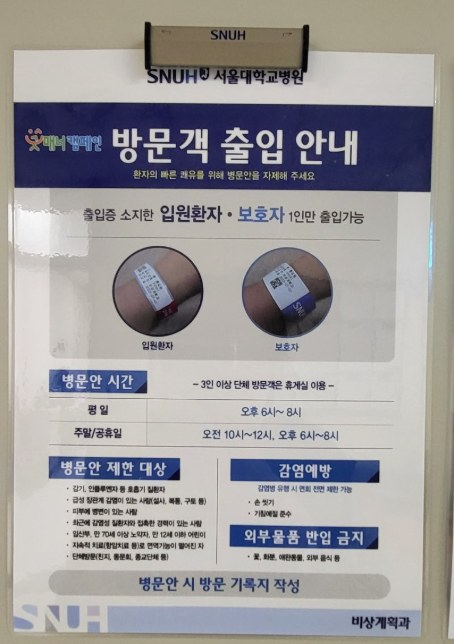
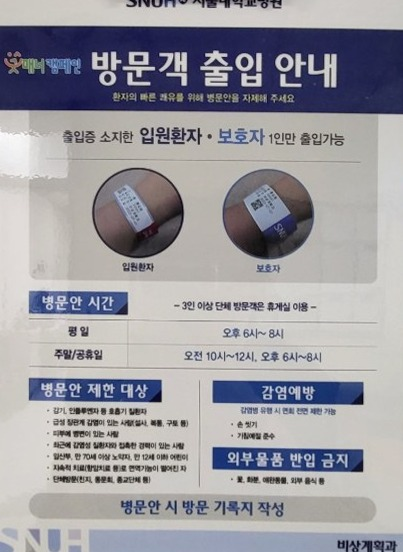
안내문을 코르크 게시판에 압정으로 한 장씩 부착, 종이만 잘라 사용, 크기 3/5
Claude-Session: https://claude.ai/code/session_01Tb1TtQBXJKutPTdhVbqyup

diff --git a/index.html b/index.html
@@ -1388,27 +1388,49 @@ function drawMonitor(g, w, h) {
   }
   tag(g, '보호자 소파 (3인용)', '');
 }
-// 병원 안내문 6장 (앞벽 왼쪽, TV 옆): 클립보드형 안내문이 2줄 × 3열로 붙어 있음. 사진은 notices/ 폴더
+// 병원 안내문 6장 (앞벽 왼쪽, TV 옆): 코르크 게시판에 압정으로 한 장씩 꽂아 둠 (2줄 × 3열). 사진은 notices/ 폴더 (종이 부분만 잘라 사용)
 {
   const NOTICES = [
-    ['n_visit', 454, 644, '방문객 출입 안내', '출입증 소지한 입원환자·보호자 1인만 출입 가능'],
-    ['n_wifi',  454, 650, 'Guest WiFi 연결 방법 안내', '모바일 Guest WiFi 연결 방법'],
-    ['n_life',  454, 672, '병원 생활 안내', '입원환자 보호자 및 간병인을 위한 병원 생활 안내'],
-    ['n_fee',   454, 630, '진료비 안내문', '병실료 안내 (본인부담금 기준)'],
-    ['n_park',  454, 694, '주차 요금 안내', '일반주차장 요금 및 감면 내역'],
-    ['n_food',  454, 684, '환자 급식 원산지 안내', '환자식 식재료 원산지']
+    ['n_visit', 403, 552, '방문객 출입 안내', '출입증 소지한 입원환자·보호자 1인만 출입 가능'],
+    ['n_wifi',  403, 521, 'Guest WiFi 연결 방법 안내', '모바일 Guest WiFi 연결 방법'],
+    ['n_life',  423, 559, '병원 생활 안내', '입원환자 보호자 및 간병인을 위한 병원 생활 안내'],
+    ['n_fee',   430, 529, '진료비 안내문', '병실료 안내 (본인부담금 기준)'],
+    ['n_park',  440, 598, '주차 요금 안내', '일반주차장 요금 및 감면 내역'],
+    ['n_food',  440, 594, '환자 급식 원산지 안내', '환자식 식재료 원산지']
   ];
-  const PW = 0.42, XS = [-2.42, -1.8, -1.18], TOPS = [2.28, 1.56];
+  const PW = 0.252, GAP = 0.05, ROWH = [0.35, 0.345];            // 안내문 너비(기존 0.42 m의 3/5), 칸 간격, 줄 높이
+  const BWd = 3 * PW + 4 * GAP + 0.04, BHt = ROWH[0] + ROWH[1] + 3 * GAP + 0.04;
+  const board = group(world, -1.8, 1.8, 2.495);
+  board.rotation.y = Math.PI;                                  // 앞면이 방 안쪽(-z)
+  const corkTex = canvasTex(512, 512, (c, w, h) => {
+    c.fillStyle = '#b98b55'; c.fillRect(0, 0, w, h);
+    for (let i = 0; i < 2600; i++) {
+      const v = Math.random();
+      c.fillStyle = v < 0.5 ? 'rgba(120,80,40,0.35)' : (v < 0.8 ? 'rgba(220,175,120,0.4)' : 'rgba(70,45,20,0.3)');
+      c.beginPath(); c.arc(Math.random() * w, Math.random() * h, 1 + Math.random() * 3, 0, 7); c.fill();
+    }
+  });
+  add(board, B(BWd + 0.05, BHt + 0.05, 0.03), mat(0x7a5230, { roughness:0.6 }), 0, 0, 0.015);      // 나무 틀
+  const cork = new THREE.Mesh(new THREE.PlaneGeometry(BWd, BHt), new THREE.MeshStandardMaterial({ map:corkTex, roughness:0.95 }));
+  cork.position.z = 0.0305; board.add(cork);
+  tag(board, '병원 게시판', '병원 안내문 6장이 압정으로 꽂혀 있음');
   const loader = new THREE.TextureLoader();
+  const pinCols = [0xd33b32, 0x2f6fd6, 0xf2c200, 0x2e9e5b, 0xd33b32, 0x2f6fd6];
   NOTICES.forEach(([file, tw, th, label, read], i) => {
-    const h = PW * th / tw, cx = XS[i % 3], top = TOPS[Math.floor(i / 3)];
-    const g = group(world, cx, top - h / 2, 2.495);
-    g.rotation.y = Math.PI;                              // 앞면이 방 안쪽(-z)
-    g.rotation.z = (i % 2 ? 1 : -1) * 0.008;             // 손으로 붙인 듯 아주 살짝 기울임
+    const col = i % 3, row = Math.floor(i / 3), h = PW * th / tw;
+    const x = -BWd / 2 + 0.02 + GAP + PW / 2 + col * (PW + GAP);
+    const topY = BHt / 2 - 0.02 - GAP - (row ? ROWH[0] + GAP : 0);
+    const g = group(board, x + (i % 2 ? 0.004 : -0.004), topY - h / 2, 0.0315);
+    g.rotation.z = [0.012, -0.01, 0.008, -0.013, 0.01, -0.008][i];   // 손으로 꽂은 듯 살짝 기울임
     const tex = loader.load('notices/' + file + '.jpg');
     tex.colorSpace = THREE.SRGBColorSpace; tex.anisotropy = 8;
+    const sh = new THREE.Mesh(new THREE.PlaneGeometry(PW, h), new THREE.MeshBasicMaterial({ color:0x000000, transparent:true, opacity:0.28 }));
+    sh.position.set(0.006, -0.006, 0.0003); g.add(sh);          // 종이 그림자
     const m = new THREE.Mesh(new THREE.PlaneGeometry(PW, h), new THREE.MeshStandardMaterial({ map:tex, roughness:0.55 }));
-    m.receiveShadow = true; g.add(m);
+    m.position.z = 0.0012; m.receiveShadow = true; g.add(m);
+    const pin = group(g, 0, h / 2 - 0.022, 0.0012);             // 압정
+    add(pin, new THREE.SphereGeometry(0.0075, 12, 8), mat(pinCols[i], { roughness:0.3, metalness:0.2 }), 0, 0, 0.004);
+    add(pin, CYL(0.002, 0.006, 8), mat(0xcfcfcf, { metalness:0.7, roughness:0.3 }), 0, 0, 0.001).rotation.x = Math.PI / 2;
     tag(g, '안내문', () => label + ' · ' + read);
   });
 }
